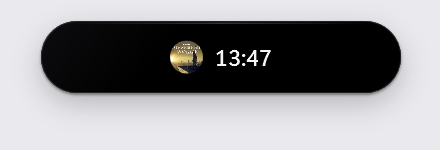
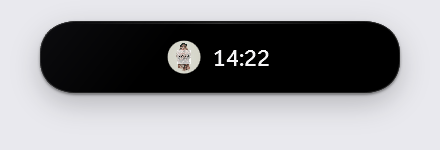
Refine collapsed capsule curvature and optical centering

diff --git a/MainWindow.xaml b/MainWindow.xaml
@@ -267,6 +267,7 @@
                                  Fill="#FF000000"
                                  CornerRadius="24"
                                  CornerSmoothing="0.6"
+                                 ContinuousCapsule="True"
                                  IsHitTestVisible="False"
                                  ClipContent="False">
             <controls:SquircleBorder.Effect>
@@ -290,6 +291,7 @@
                                  Fill="#FF000000"
                                  CornerRadius="24"
                                  CornerSmoothing="0.6"
+                                 ContinuousCapsule="True"
                                  IsHitTestVisible="False"
                                  ClipContent="False">
             <controls:SquircleBorder.Effect>
@@ -315,6 +317,7 @@
                                  StrokeThickness="1"
                                  CornerRadius="24"
                                  CornerSmoothing="0.6"
+                                 ContinuousCapsule="True"
                                  ClipContent="False">
             <controls:SquircleBorder x:Name="ContentMask"
                                      Width="380"
@@ -347,6 +350,9 @@
                     <StackPanel Orientation="Horizontal"
                                 HorizontalAlignment="Center"
                                 VerticalAlignment="Center">
+                        <StackPanel.RenderTransform>
+                            <TranslateTransform X="-1" />
+                        </StackPanel.RenderTransform>
                         <controls:SquircleBorder x:Name="CollapsedArt"
                                                  Width="22"
                                                  Height="22"
@@ -432,7 +438,7 @@
 
                         <Grid Grid.Column="1" Margin="14,1,10,0">
                             <Grid.RowDefinitions>
-                                <RowDefinition Height="34" />
+                                <RowDefinition Height="40" />
                                 <RowDefinition Height="Auto" />
                             </Grid.RowDefinitions>
                             <Grid Grid.Row="0">
@@ -459,7 +465,7 @@
                                                Style="{StaticResource TrackArtist}" />
                                 </StackPanel>
                             </Grid>
-                            <Grid Grid.Row="1" Height="11" Margin="0,8,0,0">
+                            <Grid Grid.Row="1" Height="11" Margin="0,2,0,0">
                                 <Grid.ColumnDefinitions>
                                     <ColumnDefinition Width="*" />
                                     <ColumnDefinition Width="Auto" />

diff --git a/Controls/SquircleBorder.cs b/Controls/SquircleBorder.cs
@@ -6,6 +6,10 @@ namespace DynamicIsland.Controls;
 
 public sealed class SquircleBorder : Decorator
 {
+    private const double CapsuleSpanFactor = 1.12;
+    private const double CapsuleExponent = 2.4;
+    private const int CapsuleSegments = 24;
+
     public static readonly DependencyProperty FillProperty = DependencyProperty.Register(
         nameof(Fill),
         typeof(Brush),
@@ -35,6 +39,12 @@ public sealed class SquircleBorder : Decorator
         typeof(double),
         typeof(SquircleBorder),
         new FrameworkPropertyMetadata(0.6, FrameworkPropertyMetadataOptions.AffectsRender, OnShapePropertyChanged));
+
+    public static readonly DependencyProperty ContinuousCapsuleProperty = DependencyProperty.Register(
+        nameof(ContinuousCapsule),
+        typeof(bool),
+        typeof(SquircleBorder),
+        new FrameworkPropertyMetadata(false, FrameworkPropertyMetadataOptions.AffectsRender, OnShapePropertyChanged));
 
     public static readonly DependencyProperty PaddingProperty = DependencyProperty.Register(
         nameof(Padding),
@@ -67,6 +77,7 @@ public sealed class SquircleBorder : Decorator
     private double _cachedSurfaceOffsetX;
     private double _cachedCornerRadius;
     private double _cachedCornerSmoothing;
+    private bool _cachedContinuousCapsule;
     private Pen? _cachedPen;
     private Brush? _cachedPenBrush;
     private double _cachedPenThickness;
@@ -99,6 +110,12 @@ public sealed class SquircleBorder : Decorator
     {
         get => (double)GetValue(CornerSmoothingProperty);
         set => SetValue(CornerSmoothingProperty, value);
+    }
+
+    public bool ContinuousCapsule
+    {
+        get => (bool)GetValue(ContinuousCapsuleProperty);
+        set => SetValue(ContinuousCapsuleProperty, value);
     }
 
     public Thickness Padding
@@ -136,22 +153,25 @@ public sealed class SquircleBorder : Decorator
 
         var radius = CornerRadius;
         var smoothing = CornerSmoothing;
+        var continuousCapsule = ContinuousCapsule;
         var offsetX = Math.Max(0, (ActualWidth - width) / 2);
         var size = new Size(width, height);
         if (_cachedGeometry is not null &&
             _cachedSize == size &&
             Math.Abs(_cachedSurfaceOffsetX - offsetX) < 0.001 &&
             Math.Abs(_cachedCornerRadius - radius) < 0.001 &&
-            Math.Abs(_cachedCornerSmoothing - smoothing) < 0.001)
+            Math.Abs(_cachedCornerSmoothing - smoothing) < 0.001 &&
+            _cachedContinuousCapsule == continuousCapsule)
         {
             return _cachedGeometry;
         }
 
-        _cachedGeometry = CreateSquircleGeometry(width, height, radius, smoothing, offsetX);
+        _cachedGeometry = CreateSquircleGeometry(width, height, radius, smoothing, offsetX, continuousCapsule);
         _cachedSize = size;
         _cachedSurfaceOffsetX = offsetX;
         _cachedCornerRadius = radius;
         _cachedCornerSmoothing = smoothing;
+        _cachedContinuousCapsule = continuousCapsule;
         return _cachedGeometry;
     }
 
@@ -253,7 +273,8 @@ public sealed class SquircleBorder : Decorator
         double height,
         double cornerRadius,
         double cornerSmoothing,
-        double offsetX = 0)
+        double offsetX = 0,
+        bool continuousCapsule = false)
     {
         if (width <= 0 || height <= 0)
         {
@@ -267,6 +288,13 @@ public sealed class SquircleBorder : Decorator
             var rectangle = new RectangleGeometry(new Rect(offsetX, 0, width, height));
             rectangle.Freeze();
             return rectangle;
+        }
+
+        if (continuousCapsule &&
+            radius >= budget - 0.01 &&
+            Math.Abs(width - height) > 0.5)
+        {
+            return CreateContinuousCapsuleGeometry(width, height, radius, offsetX);
         }
 
         var originalSmoothing = Math.Clamp(cornerSmoothing, 0, 1);
@@ -389,6 +417,60 @@ public sealed class SquircleBorder : Decorator
 
         geometry.Freeze();
         return geometry;
+    }
+
+    private static Geometry CreateContinuousCapsuleGeometry(
+        double width,
+        double height,
+        double radius,
+        double offsetX)
+    {
+        var horizontal = width >= height;
+        var power = 2.0 / CapsuleExponent;
+        var endSpan = Math.Min(radius * CapsuleSpanFactor, (horizontal ? width : height) / 2.0);
+        var spanX = horizontal ? endSpan : radius;
+        var spanY = horizontal ? radius : endSpan;
+
+        var geometry = new StreamGeometry { FillRule = FillRule.Nonzero };
+        using (var context = geometry.Open())
+        {
+            context.BeginFigure(new Point(offsetX + spanX, 0), true, true);
+            context.LineTo(new Point(offsetX + width - spanX, 0), true, false);
+            AppendSuperellipseCorner(context, offsetX + width - spanX, spanY, spanX, spanY, power, 1, -1, true);
+            context.LineTo(new Point(offsetX + width, height - spanY), true, false);
+            AppendSuperellipseCorner(context, offsetX + width - spanX, height - spanY, spanX, spanY, power, 1, 1, false);
+            context.LineTo(new Point(offsetX + spanX, height), true, false);
+            AppendSuperellipseCorner(context, offsetX + spanX, height - spanY, spanX, spanY, power, -1, 1, true);
+            context.LineTo(new Point(offsetX, spanY), true, false);
+            AppendSuperellipseCorner(context, offsetX + spanX, spanY, spanX, spanY, power, -1, -1, false);
+        }
+
+        geometry.Freeze();
+        return geometry;
+    }
+
+    private static void AppendSuperellipseCorner(
+        StreamGeometryContext context,
+        double centerX,
+        double centerY,
+        double radiusX,
+        double radiusY,
+        double power,
+        int xSign,
+        int ySign,
+        bool reverse)
+    {
+        var points = new Point[CapsuleSegments];
+        for (var i = 1; i <= CapsuleSegments; i++)
+        {
+            var step = reverse ? 1.0 - (double)i / CapsuleSegments : (double)i / CapsuleSegments;
+            var angle = Math.PI / 2.0 * step;
+            var x = centerX + xSign * radiusX * Math.Pow(Math.Cos(angle), power);
+            var y = centerY + ySign * radiusY * Math.Pow(Math.Sin(angle), power);
+            points[i - 1] = new Point(x, y);
+        }
+
+        context.PolyLineTo(points, true, true);
     }
 
     private static void OnShapePropertyChanged(DependencyObject dependencyObject, DependencyPropertyChangedEventArgs e)
